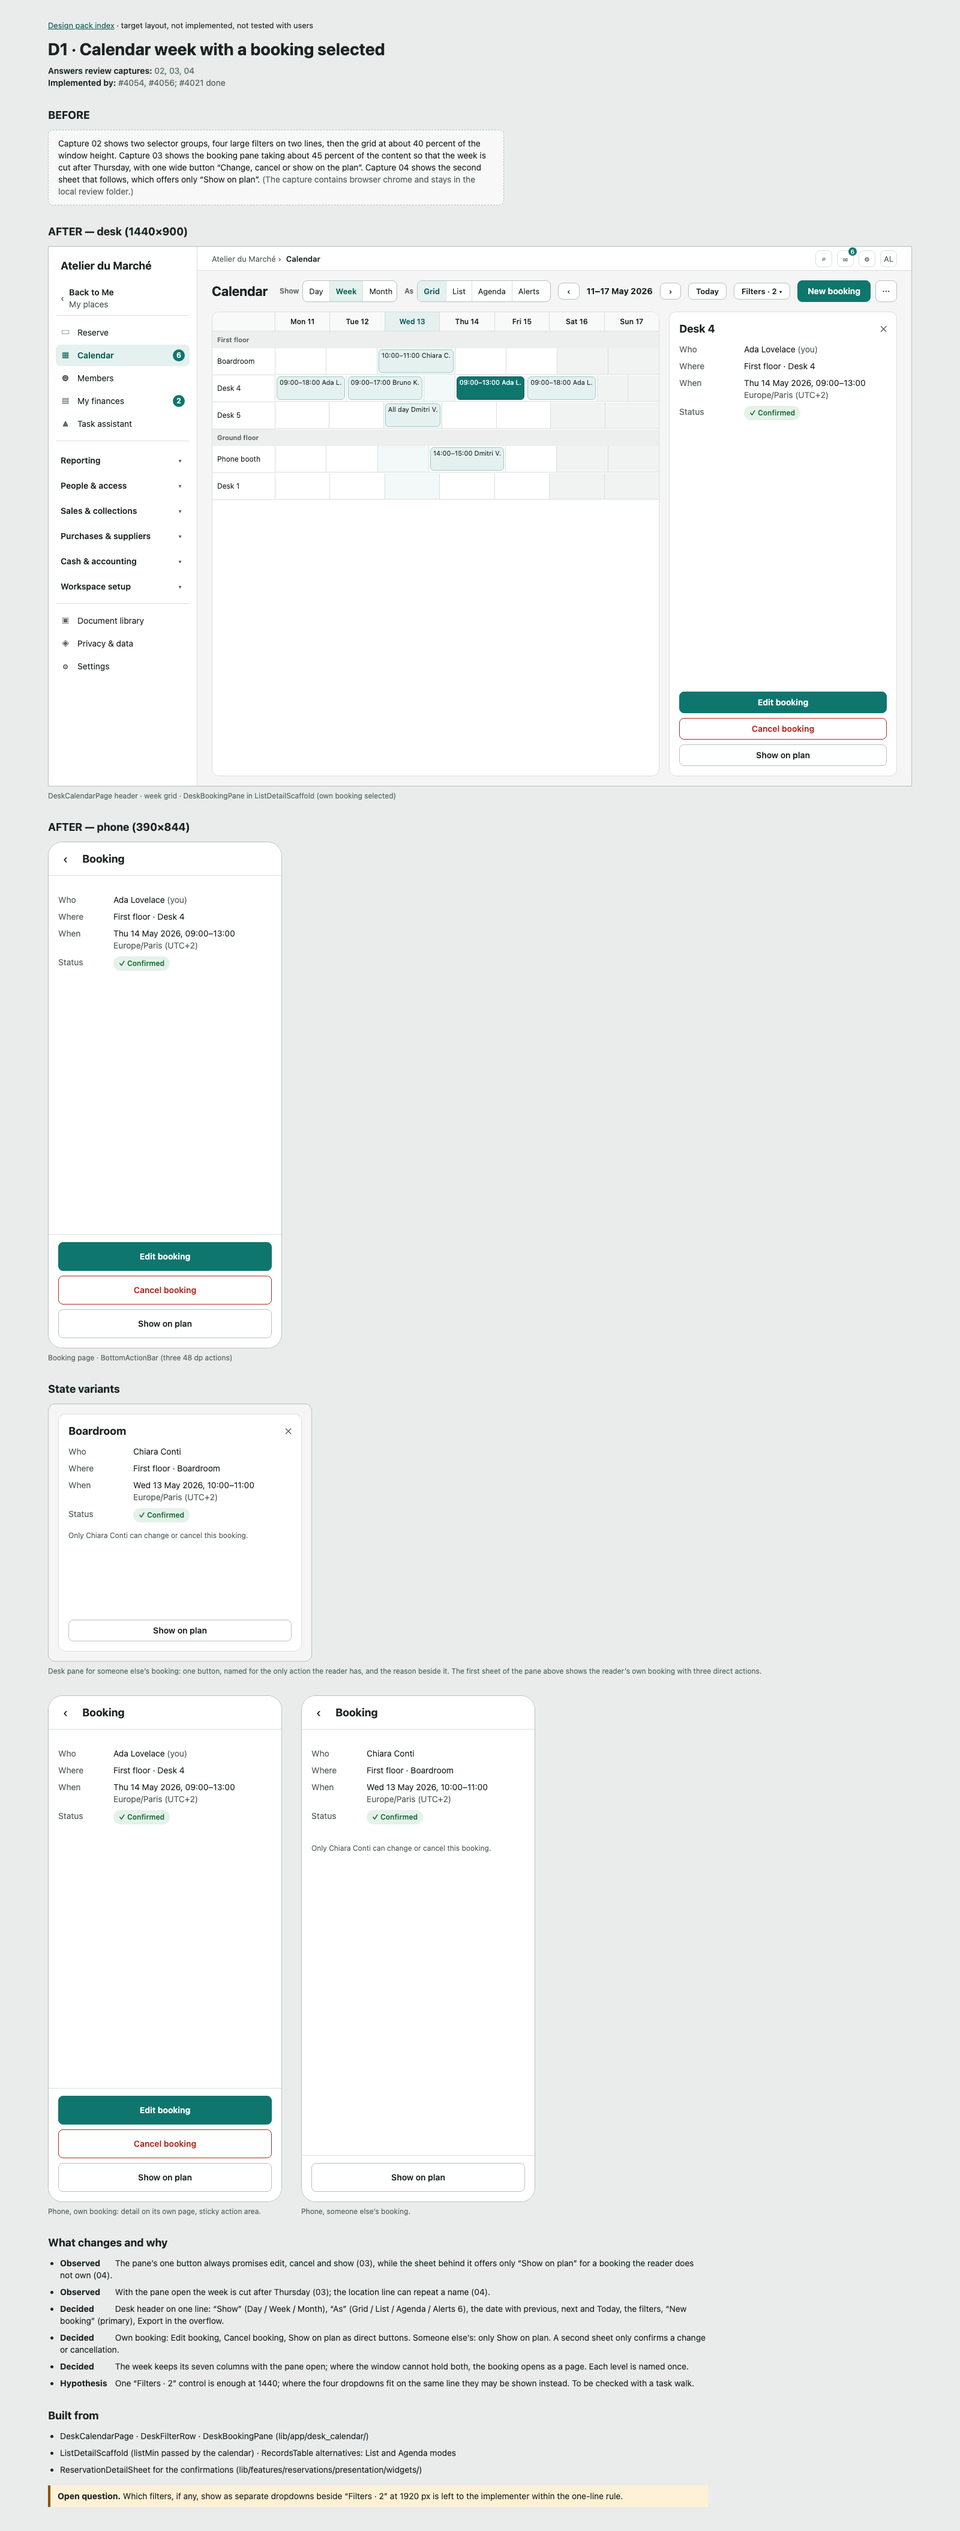
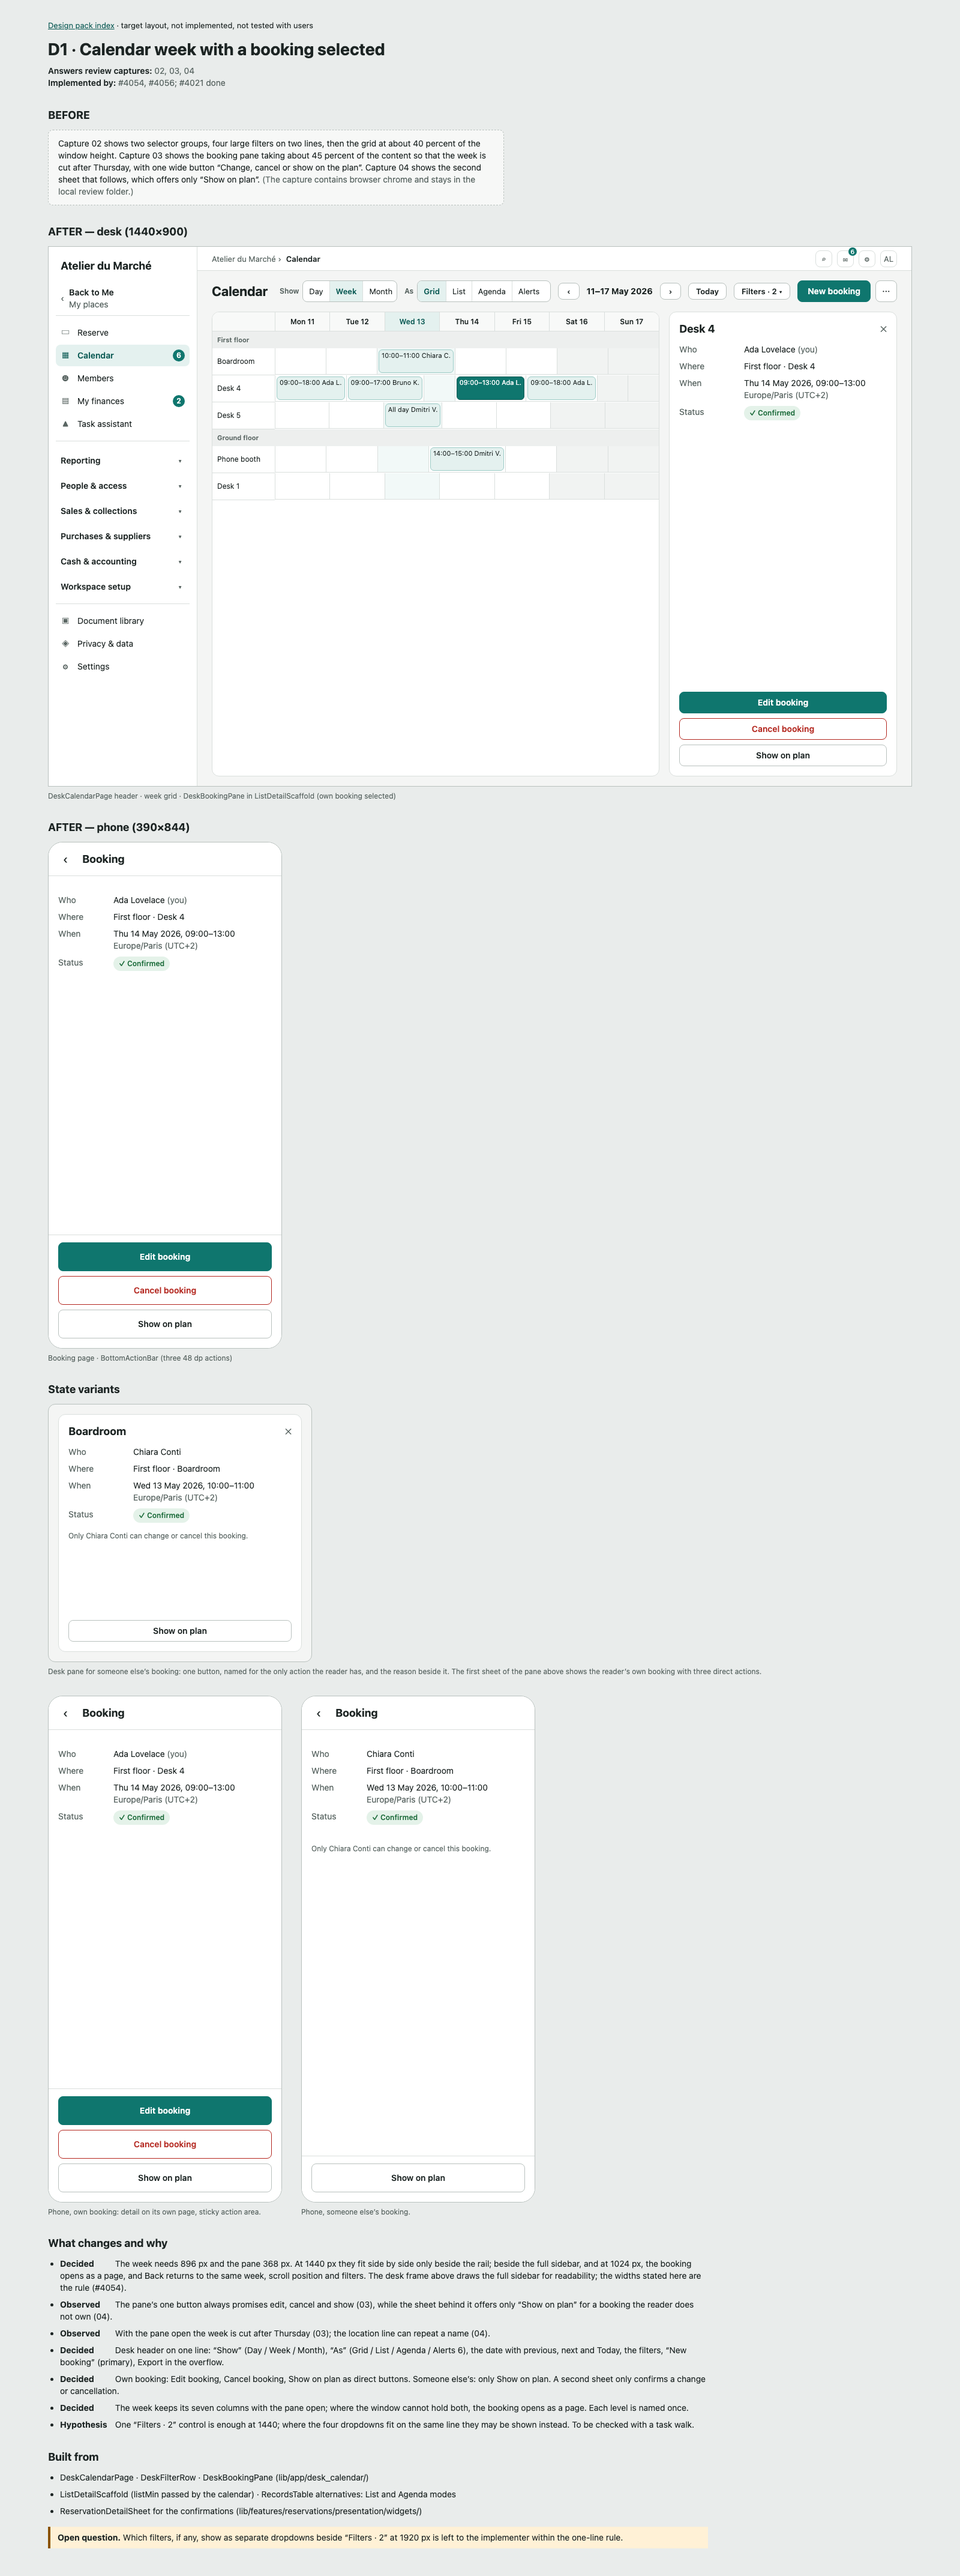
docs(design): the calendar sheet states at which widths the pane stands beside the week (Refs #4051)

diff --git a/docs/design/ux-2026-11/sheets/D1-calendar-week.html b/docs/design/ux-2026-11/sheets/D1-calendar-week.html
@@ -7,4 +7,4 @@
 <h2>BEFORE</h2><div class="beforetext">Capture 02 shows two selector groups, four large filters on two lines, then the grid at about 40 percent of the window height. Capture 03 shows the booking pane taking about 45 percent of the content so that the week is cut after Thursday, with one wide button “Change, cancel or show on the plan”. Capture 04 shows the second sheet that follows, which offers only “Show on plan”. <span class="muted">(The capture contains browser chrome and stays in the local review folder.)</span></div>
 <h2>AFTER — desk (1440×900)</h2><div class="frame desk"><div class="shell"><nav class="sidebar"><div class="brand">Atelier du Marché</div><div class="back"><span>‹</span><div><b>Back to Me</b>My places</div></div><div class="item"><span class="ico">▭</span>Reserve</div><div class="item on"><span class="ico">▦</span>Calendar<span class="count">6</span></div><div class="item"><span class="ico">☻</span>Members</div><div class="item"><span class="ico">▤</span>My finances<span class="count">2</span></div><div class="item"><span class="ico">▲</span>Task assistant</div><div class="rule"></div><div class="item group">Reporting<span class="ico">▾</span></div><div class="item group">People & access<span class="ico">▾</span></div><div class="item group">Sales & collections<span class="ico">▾</span></div><div class="item group">Purchases & suppliers<span class="ico">▾</span></div><div class="item group">Cash & accounting<span class="ico">▾</span></div><div class="item group">Workspace setup<span class="ico">▾</span></div><div class="rule"></div><div class="item"><span class="ico">▣</span>Document library</div><div class="item"><span class="ico">◈</span>Privacy & data</div><div class="item"><span class="ico">⚙</span>Settings</div></nav><div class="main"><div class="context-line">Atelier du Marché › <b>Calendar</b><span class="tools"><span>⌕</span><span class="dot">✉</span><span>⚙</span><span>AL</span></span></div><div class="page-header" style="gap:12px"><h1>Calendar</h1><div class="toolbar" style="margin-left:8px"><span class="lab">Show</span><span class="seg compact"><span>Day</span><span class="on">Week</span><span>Month</span></span><span class="lab">As</span><span class="seg compact"><span class="on">Grid</span><span class="">List</span><span class="">Agenda</span><span class="">Alerts 6</span></span><span class="btn icon small">‹</span><b style="white-space:nowrap">11–17 May 2026</b><span class="btn icon small">›</span><span class="btn small">Today</span><span class="btn small">Filters · 2 ▾</span></div><div class="spacer"><span class="btn primary">New booking</span><span class="btn icon">⋯</span></div></div><div class="content "><div class="list-detail" style="grid-template-columns:1fr 380px"><div class="wk"><div class="r"><div class="h"></div><div class="h">Mon 11</div><div class="h">Tue 12</div><div class="h today">Wed 13</div><div class="h">Thu 14</div><div class="h">Fri 15</div><div class="h">Sat 16</div><div class="h">Sun 17</div></div><div class="r"><div class="lv">First floor</div></div><div class="r"><div class="n">Boardroom</div><div class="c"></div><div class="c"></div><div class="c today"><div class="bk">10:00–11:00 Chiara C.</div></div><div class="c"></div><div class="c"></div><div class="c we"></div><div class="c we"></div></div><div class="r"><div class="n">Desk 4</div><div class="c"><div class="bk">09:00–18:00 Ada L.</div></div><div class="c"><div class="bk">09:00–17:00 Bruno K.</div></div><div class="c today"></div><div class="c"><div class="bk sel">09:00–13:00 Ada L.</div></div><div class="c"><div class="bk">09:00–18:00 Ada L.</div></div><div class="c we"></div><div class="c we"></div></div><div class="r"><div class="n">Desk 5</div><div class="c"></div><div class="c"></div><div class="c today"><div class="bk">All day Dmitri V.</div></div><div class="c"></div><div class="c"></div><div class="c we"></div><div class="c we"></div></div><div class="r"><div class="lv">Ground floor</div></div><div class="r"><div class="n">Phone booth</div><div class="c"></div><div class="c"></div><div class="c today"></div><div class="c"><div class="bk">14:00–15:00 Dmitri V.</div></div><div class="c"></div><div class="c we"></div><div class="c we"></div></div><div class="r"><div class="n">Desk 1</div><div class="c"></div><div class="c"></div><div class="c today"></div><div class="c"></div><div class="c"></div><div class="c we"></div><div class="c we"></div></div></div><div class="pane"><div style="display:flex;align-items:center"><h2>Desk 4</h2><span class="muted" style="margin-left:auto">✕</span></div><dl class="facts facts-wrap"><dt>Who</dt><dd>Ada Lovelace <span class="muted">(you)</span></dd><dt>Where</dt><dd>First floor · Desk 4</dd><dt>When</dt><dd>Thu 14 May 2026, 09:00–13:00<br><span class="muted">Europe/Paris (UTC+2)</span></dd><dt>Status</dt><dd><span class="chip ok">✓ Confirmed</span></dd></dl><div class="actions"><span class="btn primary block">Edit booking</span><span class="btn danger block">Cancel booking</span><span class="btn block">Show on plan</span></div></div></div></div></div></div></div><div class="caption">DeskCalendarPage header · week grid · DeskBookingPane in ListDetailScaffold (own booking selected)</div>
 <h2>AFTER — phone (390×844)</h2><div class="frame phone"><div class="pbar"><span class="nav">‹</span><span class="title">Booking</span></div><div class="pbody"><div style="background:var(--surface);flex:1"><dl class="facts" style="grid-template-columns:80px 1fr;padding:16px"><dt>Who</dt><dd>Ada Lovelace <span class="muted">(you)</span></dd><dt>Where</dt><dd>First floor · Desk 4</dd><dt>When</dt><dd>Thu 14 May 2026, 09:00–13:00<br><span class="muted">Europe/Paris (UTC+2)</span></dd><dt>Status</dt><dd><span class="chip ok">✓ Confirmed</span></dd></dl></div></div><div class=pfoot><span class="btn primary block">Edit booking</span><span class="btn danger block">Cancel booking</span><span class="btn block">Show on plan</span></div></div><div class="caption">Booking page · BottomActionBar (three 48 dp actions)</div>
-<h2>State variants</h2><div class="row"><div><div class="frame pane-only" style="padding:16px;height:430px;background:var(--canvas)"><div class="pane" style="height:100%"><div style="display:flex;align-items:center"><h2>Boardroom</h2><span class="muted" style="margin-left:auto">✕</span></div><dl class="facts facts-wrap"><dt>Who</dt><dd>Chiara Conti</dd><dt>Where</dt><dd>First floor · Boardroom</dd><dt>When</dt><dd>Wed 13 May 2026, 10:00–11:00<br><span class="muted">Europe/Paris (UTC+2)</span></dd><dt>Status</dt><dd><span class="chip ok">✓ Confirmed</span></dd></dl><div class="muted" style="font-size:12px">Only Chiara Conti can change or cancel this booking.</div><div class="actions"><span class="btn block">Show on plan</span></div></div></div><div class="caption">Desk pane for someone else’s booking: one button, named for the only action the reader has, and the reason beside it. The first sheet of the pane above shows the reader’s own booking with three direct actions.</div></div><div><div class="frame phone"><div class="pbar"><span class="nav">‹</span><span class="title">Booking</span></div><div class="pbody"><div style="background:var(--surface);flex:1"><dl class="facts" style="grid-template-columns:80px 1fr;padding:16px"><dt>Who</dt><dd>Ada Lovelace <span class="muted">(you)</span></dd><dt>Where</dt><dd>First floor · Desk 4</dd><dt>When</dt><dd>Thu 14 May 2026, 09:00–13:00<br><span class="muted">Europe/Paris (UTC+2)</span></dd><dt>Status</dt><dd><span class="chip ok">✓ Confirmed</span></dd></dl></div></div><div class=pfoot><span class="btn primary block">Edit booking</span><span class="btn danger block">Cancel booking</span><span class="btn block">Show on plan</span></div></div><div class="caption">Phone, own booking: detail on its own page, sticky action area.</div></div><div><div class="frame phone"><div class="pbar"><span class="nav">‹</span><span class="title">Booking</span></div><div class="pbody"><div style="background:var(--surface);flex:1"><dl class="facts" style="grid-template-columns:80px 1fr;padding:16px"><dt>Who</dt><dd>Chiara Conti</dd><dt>Where</dt><dd>First floor · Boardroom</dd><dt>When</dt><dd>Wed 13 May 2026, 10:00–11:00<br><span class="muted">Europe/Paris (UTC+2)</span></dd><dt>Status</dt><dd><span class="chip ok">✓ Confirmed</span></dd></dl><div class="muted" style="padding:0 16px;font-size:12px">Only Chiara Conti can change or cancel this booking.</div></div></div><div class=pfoot><span class="btn block">Show on plan</span></div></div><div class="caption">Phone, someone else’s booking.</div></div></div><h2>What changes and why</h2><ul class="why"><li><b>Observed</b> The pane’s one button always promises edit, cancel and show (03), while the sheet behind it offers only “Show on plan” for a booking the reader does not own (04).</li><li><b>Observed</b> With the pane open the week is cut after Thursday (03); the location line can repeat a name (04).</li><li><b>Decided</b> Desk header on one line: “Show” (Day / Week / Month), “As” (Grid / List / Agenda / Alerts 6), the date with previous, next and Today, the filters, “New booking” (primary), Export in the overflow.</li><li><b>Decided</b> Own booking: Edit booking, Cancel booking, Show on plan as direct buttons. Someone else’s: only Show on plan. A second sheet only confirms a change or cancellation.</li><li><b>Decided</b> The week keeps its seven columns with the pane open; where the window cannot hold both, the booking opens as a page. Each level is named once.</li><li><b>Hypothesis</b> One “Filters · 2” control is enough at 1440; where the four dropdowns fit on the same line they may be shown instead. To be checked with a task walk.</li></ul><h2>Built from</h2><ul class="built"><li>DeskCalendarPage · DeskFilterRow · DeskBookingPane (lib/app/desk_calendar/)</li><li>ListDetailScaffold (listMin passed by the calendar) · RecordsTable alternatives: List and Agenda modes</li><li>ReservationDetailSheet for the confirmations (lib/features/reservations/presentation/widgets/)</li></ul><div class="openq"><b>Open question.</b> Which filters, if any, show as separate dropdowns beside “Filters · 2” at 1920 px is left to the implementer within the one-line rule.</div></div></body></html>
+<h2>State variants</h2><div class="row"><div><div class="frame pane-only" style="padding:16px;height:430px;background:var(--canvas)"><div class="pane" style="height:100%"><div style="display:flex;align-items:center"><h2>Boardroom</h2><span class="muted" style="margin-left:auto">✕</span></div><dl class="facts facts-wrap"><dt>Who</dt><dd>Chiara Conti</dd><dt>Where</dt><dd>First floor · Boardroom</dd><dt>When</dt><dd>Wed 13 May 2026, 10:00–11:00<br><span class="muted">Europe/Paris (UTC+2)</span></dd><dt>Status</dt><dd><span class="chip ok">✓ Confirmed</span></dd></dl><div class="muted" style="font-size:12px">Only Chiara Conti can change or cancel this booking.</div><div class="actions"><span class="btn block">Show on plan</span></div></div></div><div class="caption">Desk pane for someone else’s booking: one button, named for the only action the reader has, and the reason beside it. The first sheet of the pane above shows the reader’s own booking with three direct actions.</div></div><div><div class="frame phone"><div class="pbar"><span class="nav">‹</span><span class="title">Booking</span></div><div class="pbody"><div style="background:var(--surface);flex:1"><dl class="facts" style="grid-template-columns:80px 1fr;padding:16px"><dt>Who</dt><dd>Ada Lovelace <span class="muted">(you)</span></dd><dt>Where</dt><dd>First floor · Desk 4</dd><dt>When</dt><dd>Thu 14 May 2026, 09:00–13:00<br><span class="muted">Europe/Paris (UTC+2)</span></dd><dt>Status</dt><dd><span class="chip ok">✓ Confirmed</span></dd></dl></div></div><div class=pfoot><span class="btn primary block">Edit booking</span><span class="btn danger block">Cancel booking</span><span class="btn block">Show on plan</span></div></div><div class="caption">Phone, own booking: detail on its own page, sticky action area.</div></div><div><div class="frame phone"><div class="pbar"><span class="nav">‹</span><span class="title">Booking</span></div><div class="pbody"><div style="background:var(--surface);flex:1"><dl class="facts" style="grid-template-columns:80px 1fr;padding:16px"><dt>Who</dt><dd>Chiara Conti</dd><dt>Where</dt><dd>First floor · Boardroom</dd><dt>When</dt><dd>Wed 13 May 2026, 10:00–11:00<br><span class="muted">Europe/Paris (UTC+2)</span></dd><dt>Status</dt><dd><span class="chip ok">✓ Confirmed</span></dd></dl><div class="muted" style="padding:0 16px;font-size:12px">Only Chiara Conti can change or cancel this booking.</div></div></div><div class=pfoot><span class="btn block">Show on plan</span></div></div><div class="caption">Phone, someone else’s booking.</div></div></div><h2>What changes and why</h2><ul class="why"><li><b>Decided</b> The week needs 896 px and the pane 368 px. At 1440 px they fit side by side only beside the rail; beside the full sidebar, and at 1024 px, the booking opens as a page, and Back returns to the same week, scroll position and filters. The desk frame above draws the full sidebar for readability; the widths stated here are the rule (#4054).</li><li><b>Observed</b> The pane’s one button always promises edit, cancel and show (03), while the sheet behind it offers only “Show on plan” for a booking the reader does not own (04).</li><li><b>Observed</b> With the pane open the week is cut after Thursday (03); the location line can repeat a name (04).</li><li><b>Decided</b> Desk header on one line: “Show” (Day / Week / Month), “As” (Grid / List / Agenda / Alerts 6), the date with previous, next and Today, the filters, “New booking” (primary), Export in the overflow.</li><li><b>Decided</b> Own booking: Edit booking, Cancel booking, Show on plan as direct buttons. Someone else’s: only Show on plan. A second sheet only confirms a change or cancellation.</li><li><b>Decided</b> The week keeps its seven columns with the pane open; where the window cannot hold both, the booking opens as a page. Each level is named once.</li><li><b>Hypothesis</b> One “Filters · 2” control is enough at 1440; where the four dropdowns fit on the same line they may be shown instead. To be checked with a task walk.</li></ul><h2>Built from</h2><ul class="built"><li>DeskCalendarPage · DeskFilterRow · DeskBookingPane (lib/app/desk_calendar/)</li><li>ListDetailScaffold (listMin passed by the calendar) · RecordsTable alternatives: List and Agenda modes</li><li>ReservationDetailSheet for the confirmations (lib/features/reservations/presentation/widgets/)</li></ul><div class="openq"><b>Open question.</b> Which filters, if any, show as separate dropdowns beside “Filters · 2” at 1920 px is left to the implementer within the one-line rule.</div></div></body></html>
